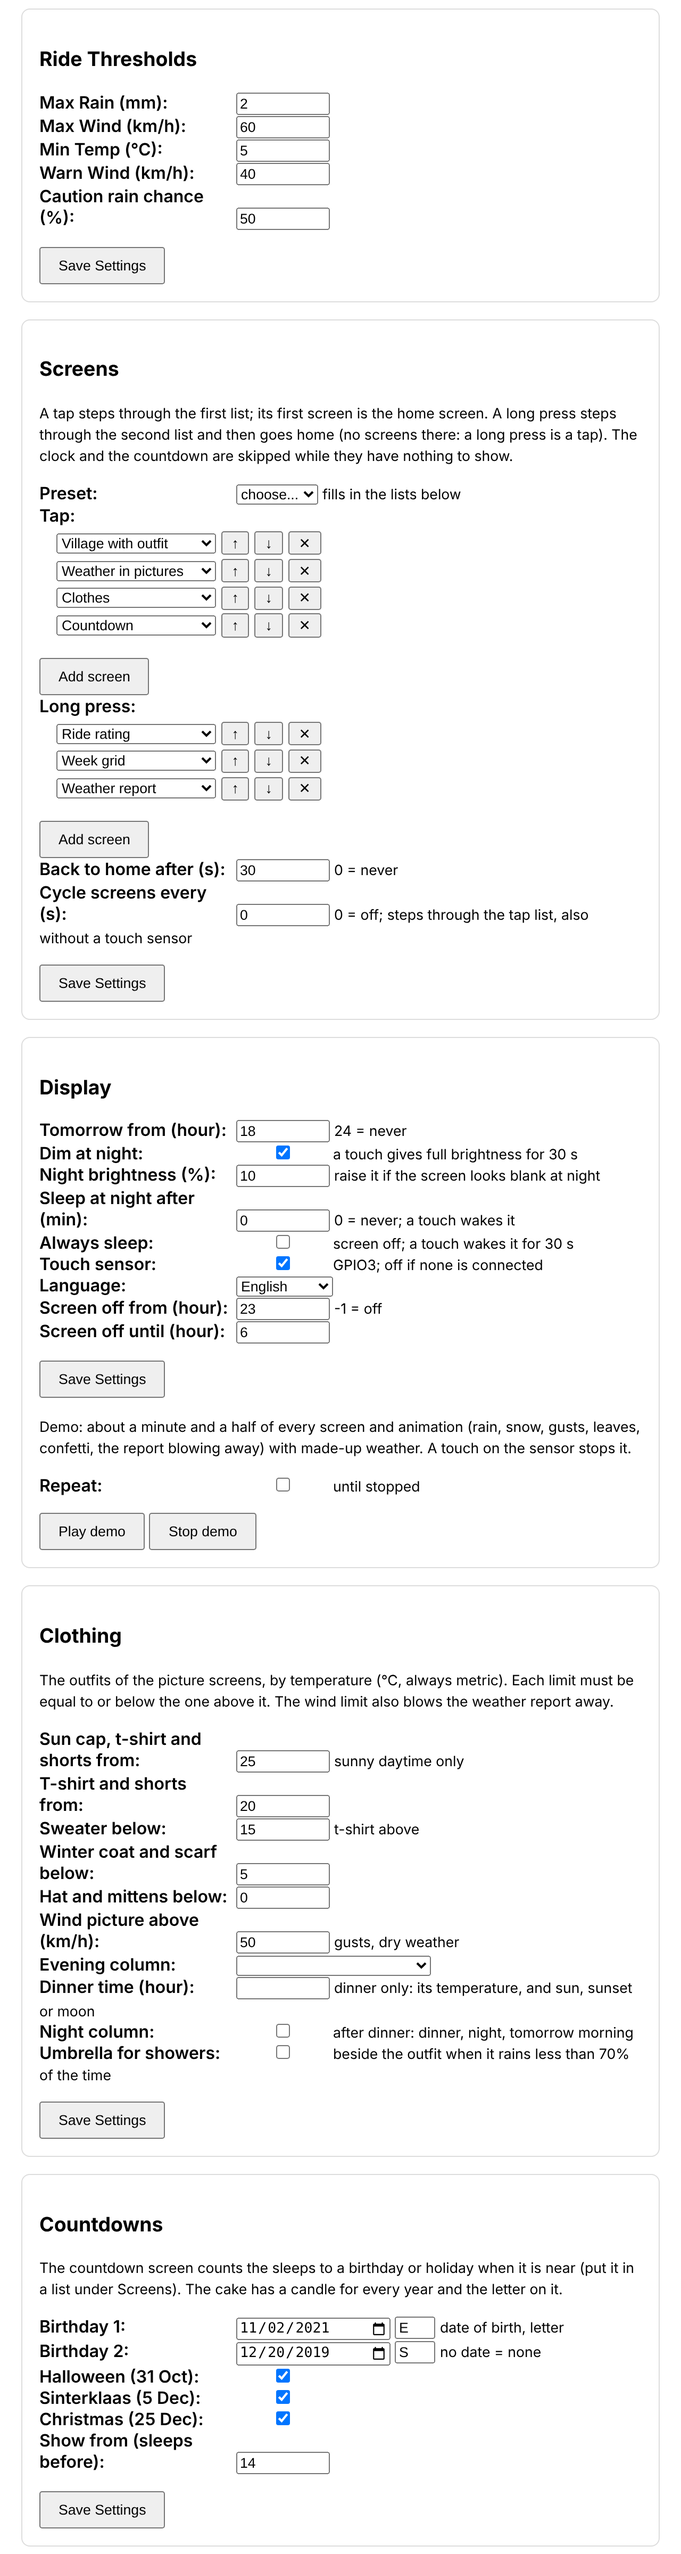
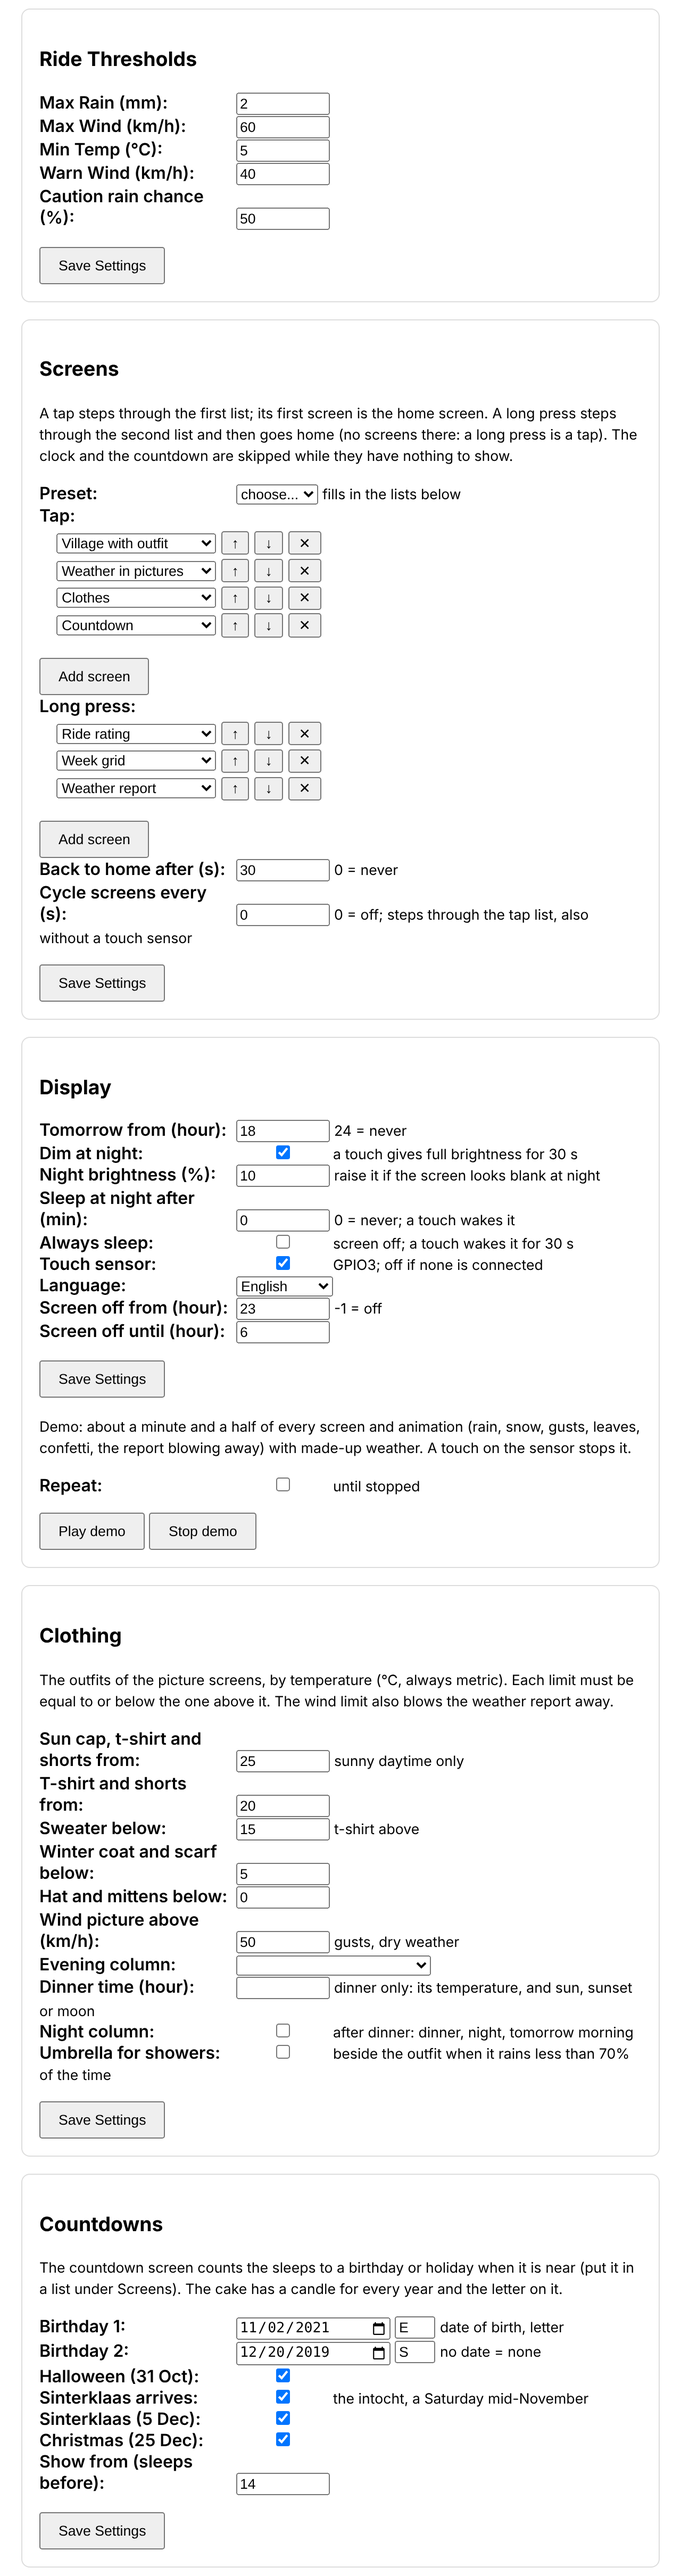
Countdown to Sinterklaas' arrival, and the device's address on the boot screen
Countdown: Sinterklaas arrives in the Netherlands (the intocht) on the Saturday of 12-18 November, as
in every year from 2019 to 2025 (sinterklaasArrivalDay(), tested against those years). It counts down
with his steamboat - hull, cabin with portholes, a smoking funnel, a pennant and waves - and is on by
default, switchable under Countdowns (config kids.intocht).

The boot and loading screens show the device's address (dayspeck-xxxx.local) across the bottom, with
a smaller spinner; the name is made before the boot screen is drawn.

Claude-Session: https://claude.ai/code/session_01BgTn1WcpSUXFywgbLdTvzG

diff --git a/firmware/src/display.cpp b/firmware/src/display.cpp
@@ -823,15 +823,16 @@ void renderPrimaryView(Adafruit_SSD1306 &display, char badgeType, bool isNight, 
 }
 
 // Render loading view — rotating badge circle and status text
-void renderLoadingView(Adafruit_SSD1306 &display, const char* line1, const char* line2, unsigned long timeMs) {
+void renderLoadingView(Adafruit_SSD1306 &display, const char* line1, const char* line2, unsigned long timeMs,
+                       const char* footer) {
     display.clearDisplay();
-    
-    // Draw rotating badge circle
-    int cx = 32, cy = 32;
+
+    // Draw rotating badge circle (smaller with a footer under it)
+    int cx = 32, cy = footer ? 26 : 32, rOuter = footer ? 22 : 28;
     // 1 full rotation per second (360 degrees / 1000 ms)
     int startAngle = (timeMs % 1000) * 360 / 1000;
     int endAngle = startAngle + 270; // 270 degree arc
-    
+
     // Sine/cosine table in 4 degree steps (x256), built once: float trig per pixel is slow
     static int16_t cosTable[90], sinTable[90];
     static bool tablesReady = false;
@@ -844,29 +845,37 @@ void renderLoadingView(Adafruit_SSD1306 &display, const char* line1, const char*
         tablesReady = true;
     }
 
-    for (int r = 28; r >= 26; r--) {
+    for (int r = rOuter; r >= rOuter - 2; r--) {
         for (int angle = startAngle; angle < endAngle; angle += 4) {
             int i = (angle % 360) / 4;
             display.drawPixel(cx + ((r * cosTable[i]) >> 8), cy + ((r * sinTable[i]) >> 8), SSD1306_WHITE);
         }
     }
-    
+
     // Draw divider line
-    display.drawLine(64, 0, 64, 63, SSD1306_WHITE);
-    
+    display.drawLine(64, 0, 64, footer ? 50 : 63, SSD1306_WHITE);
+
     // Draw status text on the right
     display.setTextSize(1);
     display.setTextColor(SSD1306_WHITE);
-    
+
     if (line1) {
-        display.setCursor(68, 24);
+        display.setCursor(68, footer ? 18 : 24);
         display.print(line1);
     }
     if (line2) {
-        display.setCursor(68, 36);
+        display.setCursor(68, footer ? 30 : 36);
         display.print(line2);
     }
-    
+
+    // Footer across the bottom: the device's address, centred (cut to the screen width if it is very long)
+    if (footer) {
+        char buf[22];
+        snprintf(buf, sizeof(buf), "%s", footer);
+        int w = (int)strlen(buf) * 6 - 1;
+        display.setCursor(w < 128 ? (128 - w) / 2 : 0, 55);
+        display.print(buf);
+    }
 }
 
 // Render setup AP instructions — full 128x64 text screen
@@ -1700,6 +1709,28 @@ static void drawMitre(Adafruit_SSD1306 &d, int cx) {
     d.drawCircleHelper(sx - 3, 15, 4, 4, SSD1306_WHITE);
 }
 
+// Sinterklaas' steamboat (pakjesboot) arriving: hull, cabin with portholes, a funnel with puffs of smoke, a
+// mast with a pennant and waves under the bow
+static void drawSteamboat(Adafruit_SSD1306 &d, int cx) {
+    d.fillRect(cx - 18, 44, 37, 6, SSD1306_WHITE);                   // hull, its bow and stern sloping in
+    d.fillTriangle(cx - 22, 44, cx - 18, 44, cx - 18, 52, SSD1306_WHITE);
+    d.fillTriangle(cx + 18, 44, cx + 22, 44, cx + 18, 52, SSD1306_WHITE);
+    d.fillRect(cx - 18, 50, 37, 3, SSD1306_WHITE);
+    d.drawFastHLine(cx - 18, 47, 37, SSD1306_BLACK);                 // a stripe along the hull
+    d.fillRect(cx - 11, 35, 20, 9, SSD1306_WHITE);                   // cabin
+    for (int i = 0; i < 3; i++) d.fillRect(cx - 8 + i * 6, 38, 3, 3, SSD1306_BLACK);   // portholes
+    d.fillRect(cx + 10, 22, 6, 22, SSD1306_WHITE);                   // funnel with a band
+    d.fillRect(cx + 10, 26, 6, 2, SSD1306_BLACK);
+    d.drawCircle(cx + 13, 16, 3, SSD1306_WHITE);                     // puffs of smoke
+    d.drawCircle(cx + 8, 10, 4, SSD1306_WHITE);
+    d.drawCircle(cx + 1, 5, 3, SSD1306_WHITE);
+    d.drawFastVLine(cx - 17, 24, 20, SSD1306_WHITE);                 // mast and pennant
+    d.fillTriangle(cx - 16, 24, cx - 16, 31, cx - 8, 27, SSD1306_WHITE);
+    for (int x = cx - 22; x <= cx + 22; x += 6) {                    // waves
+        d.drawCircleHelper(x, 58, 3, 1 | 2, SSD1306_WHITE);
+    }
+}
+
 // Christmas tree with a star on top and baubles
 static void drawTree(Adafruit_SSD1306 &d, int cx) {
     d.fillTriangle(cx, 11, cx - 11, 26, cx + 11, 26, SSD1306_WHITE);
@@ -1719,6 +1750,7 @@ static void drawEvent(Adafruit_SSD1306 &d, int cx, const KidsCountdown &c) {
     case KIDS_EVENT_HALLOWEEN:   drawPumpkin(d, cx); break;
     case KIDS_EVENT_SINTERKLAAS: drawMitre(d, cx); break;
     case KIDS_EVENT_CHRISTMAS:   drawTree(d, cx); break;
+    case KIDS_EVENT_INTOCHT:     drawSteamboat(d, cx); break;
     default:                     drawCake(d, cx, c.age, c.initial); break;
     }
 }

diff --git a/firmware/src/main.cpp b/firmware/src/main.cpp
@@ -198,9 +198,10 @@ void loadConfig() {
                 }
             }
         }
-        const char* const HOLIDAY_KEYS[] = { "halloween", "sinterklaas", "christmas" };
-        const int HOLIDAY_KINDS[] = { KIDS_EVENT_HALLOWEEN, KIDS_EVENT_SINTERKLAAS, KIDS_EVENT_CHRISTMAS };
-        for (int i = 0; i < 3; i++) {
+        const char* const HOLIDAY_KEYS[] = { "halloween", "sinterklaas", "christmas", "intocht" };
+        const int HOLIDAY_KINDS[] = { KIDS_EVENT_HALLOWEEN, KIDS_EVENT_SINTERKLAAS, KIDS_EVENT_CHRISTMAS,
+                                      KIDS_EVENT_INTOCHT };
+        for (int i = 0; i < 4; i++) {
             if (!o[HOLIDAY_KEYS[i]].is<bool>()) continue;
             if (o[HOLIDAY_KEYS[i]]) kidsHolidays |= KIDS_HOLIDAY(HOLIDAY_KINDS[i]);
             else kidsHolidays &= ~KIDS_HOLIDAY(HOLIDAY_KINDS[i]);
@@ -594,6 +595,14 @@ void renderKidsVillage() {
 }
 
 /**
+ * The device's address for the boot and loading screens: name.local, or just the name when that is too long
+ */
+static String deviceAddress() {
+    String address = deviceName + ".local";
+    return address.length() <= 21 ? address : deviceName;
+}
+
+/**
  * Get initialization status text for loading screen
  */
 void getInitStatus(const char* &line1, const char* &line2) {
@@ -946,7 +955,7 @@ void render() {
         const char* line1;
         const char* line2;
         getInitStatus(line1, line2);
-        renderLoadingView(display, line1, line2, millis());
+        renderLoadingView(display, line1, line2, millis(), deviceAddress().c_str());
     } else {
         switch (screen) {
         case SCREEN_WEATHER:   renderKids(true); break;
@@ -1289,8 +1298,17 @@ void setup() {
     Wire.begin(OLED_SDA, OLED_SCL);
     Wire.setClock(400000);
 
+    // Every device needs its own network name (with several on one network, a shared dayspeck.local would
+    // reach a random one): without one in config.json it gets dayspeck-xxxx, random and kept from then on
+    if (deviceName.length() == 0) {
+        char name[16];
+        snprintf(name, sizeof(name), "dayspeck-%04x", (unsigned int)((ESP.random() ^ micros()) & 0xFFFF));
+        deviceName = name;
+        saveHostname(deviceName);
+    }
+
     initDisplay();
-    renderLoadingView(display, "Dayspeck", "Booting...", 0);
+    renderLoadingView(display, "Dayspeck", "Booting...", 0, deviceAddress().c_str());
     showFrame(display);
 
     if (displayTouchEnabled) touch_init();
@@ -1305,14 +1323,6 @@ void setup() {
     bool restarted = resetReason != REASON_DEFAULT_RST && resetReason != REASON_EXT_SYS_RST;
     if (restarted) WiFi.mode(WIFI_OFF);
     WiFi.setAutoReconnect(true);
-    // Every device needs its own network name (with several on one network, a shared dayspeck.local would
-    // reach a random one): without one in config.json it gets dayspeck-xxxx, random and kept from then on
-    if (deviceName.length() == 0) {
-        char name[16];
-        snprintf(name, sizeof(name), "dayspeck-%04x", (unsigned int)((ESP.random() ^ micros()) & 0xFFFF));
-        deviceName = name;
-        saveHostname(deviceName);
-    }
     WiFi.hostname(deviceName);       // the name the router lists
     WiFi.mode(WIFI_STA);
     if (wifiSsid.length() > 0) {

diff --git a/firmware/src/webserver.cpp b/firmware/src/webserver.cpp
@@ -210,6 +210,7 @@ static const char index_html[] PROGMEM = R"HTML(
             <span class="label">Birthday 1:</span> <input name="birthday1" type="date"> <input name="initial1" class="letter" maxlength="1" pattern="[A-Za-z]?" title="one letter"> <small>date of birth, letter</small><br>
             <span class="label">Birthday 2:</span> <input name="birthday2" type="date"> <input name="initial2" class="letter" maxlength="1" pattern="[A-Za-z]?" title="one letter"> <small>no date = none</small><br>
             <span class="label">Halloween (31 Oct):</span> <input name="halloween" type="checkbox"><br>
+            <span class="label">Sinterklaas arrives:</span> <input name="intocht" type="checkbox"> <small>the intocht, a Saturday mid-November</small><br>
             <span class="label">Sinterklaas (5 Dec):</span> <input name="sinterklaas" type="checkbox"><br>
             <span class="label">Christmas (25 Dec):</span> <input name="christmas" type="checkbox"><br>
             <span class="label">Show from (sleeps before):</span> <input name="countdownDays" type="number" step="1" min="1" max="60"><br>
@@ -433,6 +434,7 @@ static const char index_html[] PROGMEM = R"HTML(
                     });
                     c.halloween.checked = s.kids.halloween;
                     c.sinterklaas.checked = s.kids.sinterklaas;
+                    c.intocht.checked = s.kids.intocht;
                     c.christmas.checked = s.kids.christmas;
                     c.countdownDays.value = s.kids.countdownDays;
 
@@ -900,6 +902,7 @@ static void handleApiStatus() {
     }
     kids["halloween"] = (kidsHolidays & KIDS_HOLIDAY(KIDS_EVENT_HALLOWEEN)) != 0;
     kids["sinterklaas"] = (kidsHolidays & KIDS_HOLIDAY(KIDS_EVENT_SINTERKLAAS)) != 0;
+    kids["intocht"] = (kidsHolidays & KIDS_HOLIDAY(KIDS_EVENT_INTOCHT)) != 0;
     kids["christmas"] = (kidsHolidays & KIDS_HOLIDAY(KIDS_EVENT_CHRISTMAS)) != 0;
     kids["countdownDays"] = kidsCountdownDays;
 
@@ -1066,6 +1069,7 @@ static void handleApiCountdown() {
     unsigned holidays = 0;
     if (server.hasArg("halloween")) holidays |= KIDS_HOLIDAY(KIDS_EVENT_HALLOWEEN);
     if (server.hasArg("sinterklaas")) holidays |= KIDS_HOLIDAY(KIDS_EVENT_SINTERKLAAS);
+    if (server.hasArg("intocht")) holidays |= KIDS_HOLIDAY(KIDS_EVENT_INTOCHT);
     if (server.hasArg("christmas")) holidays |= KIDS_HOLIDAY(KIDS_EVENT_CHRISTMAS);
 
     bool saved = updateConfig([&](JsonDocument& doc) {
@@ -1078,6 +1082,7 @@ static void handleApiCountdown() {
         }
         doc["kids"]["halloween"] = (holidays & KIDS_HOLIDAY(KIDS_EVENT_HALLOWEEN)) != 0;
         doc["kids"]["sinterklaas"] = (holidays & KIDS_HOLIDAY(KIDS_EVENT_SINTERKLAAS)) != 0;
+        doc["kids"]["intocht"] = (holidays & KIDS_HOLIDAY(KIDS_EVENT_INTOCHT)) != 0;
         doc["kids"]["christmas"] = (holidays & KIDS_HOLIDAY(KIDS_EVENT_CHRISTMAS)) != 0;
         doc["kids"]["countdownDays"] = days;
     });

diff --git a/test/test_logic/test_logic.cpp b/test/test_logic/test_logic.cpp
@@ -902,6 +902,27 @@ void test_countdown_picks_the_nearest_event() {
     TEST_ASSERT_EQUAL_INT(0, c.sleeps);
 }
 
+void test_sinterklaas_arrival() {
+    // The intocht in recent years, all on the Saturday of 12-18 November
+    TEST_ASSERT_EQUAL_INT(16, sinterklaasArrivalDay(2019));
+    TEST_ASSERT_EQUAL_INT(14, sinterklaasArrivalDay(2020));
+    TEST_ASSERT_EQUAL_INT(13, sinterklaasArrivalDay(2021));
+    TEST_ASSERT_EQUAL_INT(12, sinterklaasArrivalDay(2022));
+    TEST_ASSERT_EQUAL_INT(18, sinterklaasArrivalDay(2023));
+    TEST_ASSERT_EQUAL_INT(16, sinterklaasArrivalDay(2024));
+    TEST_ASSERT_EQUAL_INT(15, sinterklaasArrivalDay(2025));
+    TEST_ASSERT_EQUAL_INT(14, sinterklaasArrivalDay(2026));
+    // The countdown: from 3 November 2026, 11 sleeps; on the day 0; the next day it waits for next year
+    KidsCountdown c = nextKidsCountdown(2026, 11, 3, nullptr, 0, KIDS_HOLIDAY(KIDS_EVENT_INTOCHT), 14);
+    TEST_ASSERT_TRUE(c.active);
+    TEST_ASSERT_EQUAL_INT(KIDS_EVENT_INTOCHT, c.kind);
+    TEST_ASSERT_EQUAL_INT(11, c.sleeps);
+    TEST_ASSERT_EQUAL_INT(0, nextKidsCountdown(2026, 11, 14, nullptr, 0, KIDS_ALL_HOLIDAYS, 14).sleeps);
+    TEST_ASSERT_FALSE(nextKidsCountdown(2026, 11, 15, nullptr, 0, KIDS_HOLIDAY(KIDS_EVENT_INTOCHT), 14).active);
+    c = nextKidsCountdown(2026, 11, 15, nullptr, 0, KIDS_HOLIDAY(KIDS_EVENT_INTOCHT), 365);
+    TEST_ASSERT_EQUAL_INT(363, c.sleeps);                            // to 13 November 2027
+}
+
 void test_countdown_settings() {
     KidsBirthday b[2] = { { 2020, 10, 31, 'A' }, { 0, 0, 0, 0 } };   // the second one is not set
     // a birthday wins a tie with a holiday
@@ -1135,6 +1156,7 @@ int main(int, char**) {
     RUN_TEST(test_parse_iso_date);
     RUN_TEST(test_days_until_next);
     RUN_TEST(test_countdown_picks_the_nearest_event);
+    RUN_TEST(test_sinterklaas_arrival);
     RUN_TEST(test_countdown_settings);
     RUN_TEST(test_kids_weather);
     RUN_TEST(test_weather_codes);

diff --git a/firmware/lib/motologic/motologic.h b/firmware/lib/motologic/motologic.h
@@ -236,9 +236,10 @@ size_t kidsPartTimeline(const KidsHour* hours, const KidsPart& part, const KidsL
 #define KIDS_EVENT_HALLOWEEN    1   // 31 October
 #define KIDS_EVENT_SINTERKLAAS  2   // 5 December (pakjesavond)
 #define KIDS_EVENT_CHRISTMAS    3   // 25 December
+#define KIDS_EVENT_INTOCHT      4   // Sinterklaas arrives in the Netherlands: the Saturday of 12-18 November
 #define KIDS_HOLIDAY(kind)      (1u << (kind))   // bit of a holiday in the `holidays` mask
 #define KIDS_ALL_HOLIDAYS       (KIDS_HOLIDAY(KIDS_EVENT_HALLOWEEN) | KIDS_HOLIDAY(KIDS_EVENT_SINTERKLAAS) | \
-                                 KIDS_HOLIDAY(KIDS_EVENT_CHRISTMAS))
+                                 KIDS_HOLIDAY(KIDS_EVENT_CHRISTMAS) | KIDS_HOLIDAY(KIDS_EVENT_INTOCHT))
 #define KIDS_COUNTDOWN_DAYS     14  // default: a countdown shows from this many sleeps before the day
 #define KIDS_MAX_COUNTDOWN_DAYS 60
 #define KIDS_MAX_BIRTHDAYS      2
@@ -269,6 +270,10 @@ bool parseIsoDate(const char* text, int& year, int& month, int& day);
 // Days from today (year, month, day) to the next `month`/`day`, today included (0). A 29 February
 // falls on 28 February in other years. occurrenceYear gets the year it falls in.
 int daysUntilNext(int year, int month, int day, int onMonth, int onDay, int& occurrenceYear);
+
+// Day in November of the national arrival of Sinterklaas (intocht) in `year`: the Saturday of 12-18 November,
+// as in every year from 2019 to 2025
+int sinterklaasArrivalDay(int year);
 
 // The nearest birthday or enabled holiday (KIDS_HOLIDAY mask) within `withinDays` sleeps from today; a
 // birthday wins a tie. Birthdays that are not set, or lie in the future, are skipped.

diff --git a/firmware/lib/motologic/motologic.cpp b/firmware/lib/motologic/motologic.cpp
@@ -805,6 +805,11 @@ int daysUntilNext(int year, int month, int day, int onMonth, int onDay, int& occ
     }
 }
 
+int sinterklaasArrivalDay(int year) {
+    int dow = (int)((daysFromCivil(year, 11, 12) % 7 + 7 + 4) % 7);   // of 12 November; 1970-01-01 was a Thursday
+    return 12 + (6 - dow + 7) % 7;                                    // the Saturday from there
+}
+
 KidsCountdown nextKidsCountdown(int year, int month, int day, const KidsBirthday* birthdays, size_t count,
                                 unsigned holidays, int withinDays) {
     KidsCountdown best = { false, 0, 0, 0, 0 };
@@ -827,6 +832,15 @@ KidsCountdown nextKidsCountdown(int year, int month, int day, const KidsBirthday
         int sleeps = daysUntilNext(year, month, day, h[1], h[2], when);
         if (sleeps <= withinDays && (!best.active || sleeps < best.sleeps)) {
             best = { true, h[0], sleeps, 0, 0 };
+        }
+    }
+    if (holidays & KIDS_HOLIDAY(KIDS_EVENT_INTOCHT)) {                 // a different date every year
+        long today = daysFromCivil(year, month, day);
+        long arrival = daysFromCivil(year, 11, sinterklaasArrivalDay(year));
+        if (arrival < today) arrival = daysFromCivil(year + 1, 11, sinterklaasArrivalDay(year + 1));
+        int sleeps = (int)(arrival - today);
+        if (sleeps <= withinDays && (!best.active || sleeps < best.sleeps)) {
+            best = { true, KIDS_EVENT_INTOCHT, sleeps, 0, 0 };
         }
     }
     return best;

diff --git a/firmware/include/display.h b/firmware/include/display.h
@@ -202,7 +202,9 @@ void renderKidsVillageView(Adafruit_SSD1306 &display, const KidsColumn &now, boo
 void renderReportView(Adafruit_SSD1306 &display, const char (*lines)[REPORT_COLS + 1], size_t count);
 // Setup access point instructions (full width): network name, password and IP address
 void renderApInfoView(Adafruit_SSD1306 &display, const char* ssid, const char* password, const char* ip);
-void renderLoadingView(Adafruit_SSD1306 &display, const char* line1, const char* line2, unsigned long timeMs);
+// footer (optional): a line across the bottom, such as the device's address
+void renderLoadingView(Adafruit_SSD1306 &display, const char* line1, const char* line2, unsigned long timeMs,
+                       const char* footer = nullptr);
 // Sends the frame buffer to the panel, unless the panel already shows exactly this frame: an animation tick that
 // changes nothing visible then costs no I2C transfer (on an ESP-01S the blue LED sits on GPIO2 = SCL and flickers
 // with every transfer). Use it instead of display.display().

diff --git a/tools/webui_screenshots.py b/tools/webui_screenshots.py
@@ -32,7 +32,7 @@ STATUS = {
     "kids": {"hotFromC": 25, "shortsFromC": 20, "sweaterBelowC": 15, "coatBelowC": 5, "freezeBelowC": 0,
              "windyGustKmh": 50, "birthdays": [{"date": "2021-11-02", "initial": "E"},
                                                {"date": "2019-12-20", "initial": "S"}],
-             "halloween": True, "sinterklaas": True, "christmas": True, "countdownDays": 14},
+             "halloween": True, "intocht": True, "sinterklaas": True, "christmas": True, "countdownDays": 14},
     "lat": 52.37, "lon": 4.89, "locationSource": "Manual Selection",
     "locationName": "Amsterdam, Noord-Holland, Nederland",
     "thresholds": {"maxRainMm": 2.0, "maxWindKmh": 60, "minTempC": 5, "warnWindKmh": 40, "rainProbPct": 50},

diff --git a/tools/screenshots_host/screens.cpp b/tools/screenshots_host/screens.cpp
@@ -198,13 +198,15 @@ static void kidsScreens() {
 
 static void countdowns() {
     hostMillis = 1500;   // confetti on the day itself
-    const KidsCountdown c[4] = {
+    const KidsCountdown c[6] = {
         { true, KIDS_EVENT_BIRTHDAY, 6, 5, 'E' },
         { true, KIDS_EVENT_HALLOWEEN, 12, 0, 0 },
+        { true, KIDS_EVENT_INTOCHT, 9, 0, 0 },
         { true, KIDS_EVENT_SINTERKLAAS, 3, 0, 0 },
         { true, KIDS_EVENT_CHRISTMAS, 0, 0, 0 },
+        { true, KIDS_EVENT_INTOCHT, 0, 0, 0 },
     };
-    for (int i = 0; i < 4; i++) {
+    for (int i = 0; i < 6; i++) {
         renderKidsCountdown(d, c[i], hostMillis);
         frame("kids-countdown", i);
     }

diff --git a/tools/screen_pictures.py b/tools/screen_pictures.py
@@ -77,7 +77,7 @@ def main():
                if not name.endswith("-wind")}
     layout = {"kids-clothes": 3, "kids-weather": 2, "kids-dinner": 3, "kids-night": 2, "kids-sunset": 2,
               "kids-umbrella": 1,
-              "kids-countdown": 2,
+              "kids-countdown": 3,
               "kids-village": 3, "report": 2, "ride-hours": 3}
     for name, columns in layout.items():
         grid(screens[name], columns).save(out / f"{name}.png", optimize=True)

diff --git a/docs/kids.md b/docs/kids.md
@@ -171,12 +171,13 @@ the left and the number of sleeps (nights) still to go on the right. With ten sl
 row of beds to count, one for every night, so one goes away each morning. On the day itself the picture stands
 in the middle with confetti falling around it.
 
-![Countdown screens: a birthday cake with five candles and the letter E, six sleeps to go; a pumpkin, twelve sleeps to Halloween; Sinterklaas' mitre and staff, three sleeps; Christmas day, a tree with confetti](images/kids-countdown.png){ .center }
+![Countdown screens: a birthday cake with five candles and the letter E, six sleeps to go; a pumpkin, twelve sleeps to Halloween; Sinterklaas' steamboat, nine sleeps to his arrival; his mitre and staff, three sleeps; Christmas day, a tree with confetti; the day the steamboat arrives, with confetti](images/kids-countdown.png){ .center }
 
 | Day | Picture |
 |-----|---------|
 | birthday (two can be set) | a cake with a candle for every year it turns (10 and older: the age as a number) and the child's letter on it |
 | Halloween, 31 October | a pumpkin |
+| Sinterklaas arrives (the intocht), the Saturday of 12-18 November | his steamboat |
 | Sinterklaas (pakjesavond), 5 December | the mitre and staff |
 | Christmas, 25 December | a Christmas tree |
 
@@ -195,7 +196,7 @@ shorts limit has no t-shirt step. They are saved in `config.json` (the `kids` ke
 the **night column** and the **umbrella for showers** on (both off by default).
 
 Under *Countdowns* you enter the two birthdays (the date of birth, for the number of candles, and a
-letter for the cake), switch Halloween, Sinterklaas and Christmas on or off, and set from how many sleeps
+letter for the cake), switch Halloween, Sinterklaas' arrival, Sinterklaas and Christmas on or off, and set from how many sleeps
 before the day the countdown starts.
 
 The other hours of the parts of the day (morning 7, afternoon 12, bedtime 22) are compile-time settings

diff --git a/docs/configuration.md b/docs/configuration.md
@@ -27,7 +27,7 @@ The web UI edits this file; you can also edit it before `uploadfs`. Unknown keys
 | `kids.umbrella` | an umbrella with the outfit on the picture screens for a shower, less than 70% of the hours wet (default false) |
 | `kids.nightColumn` | after dinner the picture screens show dinner, the night and tomorrow morning (default false) |
 | `kids.birthdays` | countdown: up to two `[{"date": "YYYY-MM-DD", "initial": "E"}]`, the date of birth and the letter on the cake (A-Z, may be empty) |
-| `kids.halloween`, `kids.sinterklaas`, `kids.christmas` | countdown: count down to 31 October, 5 December and 25 December (default `true`) |
+| `kids.halloween`, `kids.intocht`, `kids.sinterklaas`, `kids.christmas` | countdown: count down to 31 October, Sinterklaas' arrival (the Saturday of 12-18 November), 5 December and 25 December (default `true`) |
 | `kids.countdownDays` | countdown: shows from this many sleeps before the day, 1-60 (default 14) |
 | `wd_am`, `wd_pm` | weekday morning / evening ride window: `[start hour, hours]` |
 | `we_am`, `we_pm` | the same for Saturday and Sunday |
